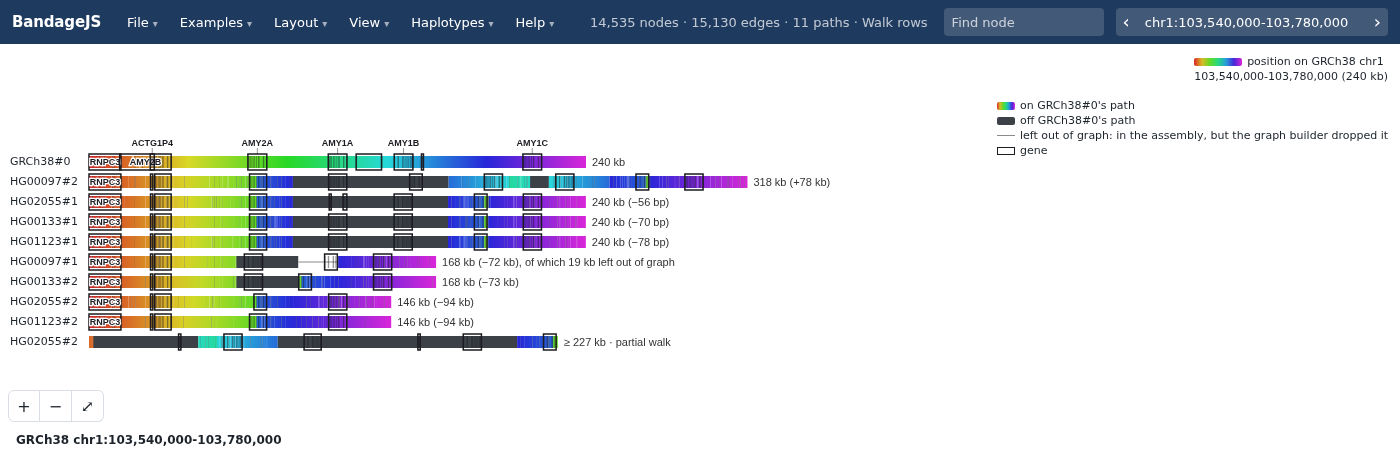
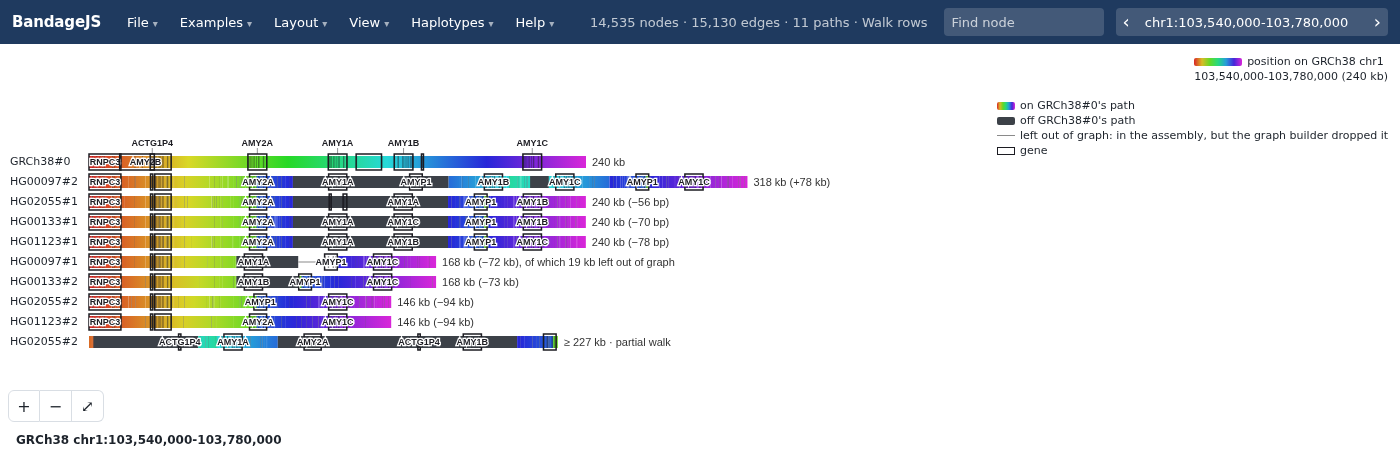
Reshoot the amylase and E. coli figures on bandage-core 8ce206c
Haplotype walk rows name their genes again, so the amylase caption counts
AMY1 copies per row once more, and the E. coli slice names about 74 of
K-12's genes over a readable graph in place of the old 12.3.0 picture.
Every other figure comes out byte-identical on 8ce206c.

Changed region(s): [[0.0921, 0.3652, 0.3993, 0.7609], [0.3993, 0.3652, 0.5221, 0.4261], [0.2764, 0.7304, 0.3686, 0.7609]]

diff --git a/docs/gallery.md b/docs/gallery.md
@@ -23,11 +23,11 @@ CFHR3 and CFHR1. HG02055#1 takes the edge that skips them, and runs 85 kb short:
 
 ![GRCh38, HG00097#1 and HG02055#1 through CFH, one panel each](../img/cfh_facet.png)
 
-The amylase locus is drawn as walk rows for four HPRC samples. CAT's genes are
-boxed on every row and named above GRCh38's, and the longer walks box more gene
-copies, up to HG00097#2's 318 kb. Charcoal marks a stretch off GRCh38's path, a
-thin line a stretch the graph left out (19 kb in HG00097#1), and "partial walk"
-a walk that leaves the cut region:
+The amylase locus is drawn as walk rows for four HPRC samples, with CAT's genes
+boxed and named. The boxes count AMY1 copies: one at 146 kb, two at 168 kb,
+three at 240 kb (as in GRCh38) and four at 318 kb. Charcoal marks a stretch off
+GRCh38's path, a thin line a stretch the graph left out (19 kb in HG00097#1),
+and "partial walk" a walk that leaves the cut region:
 
 ![The amylase locus in four HPRC samples, as walk rows with their genes](../img/amy1_rows.png)
 
